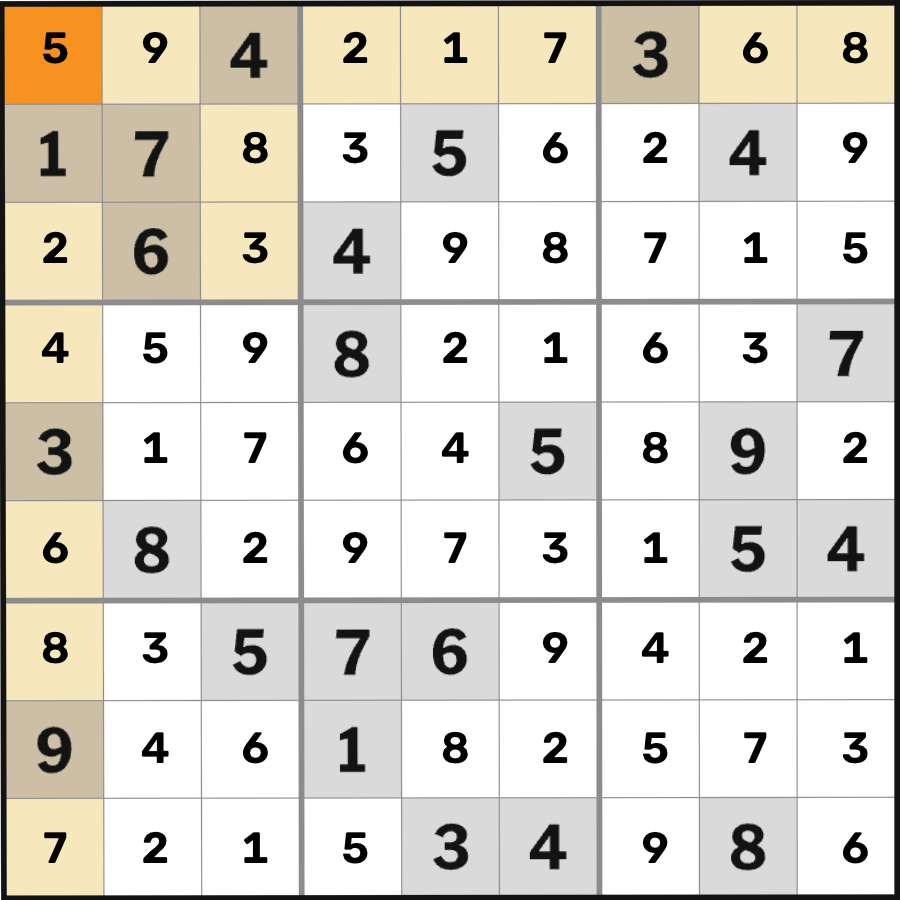
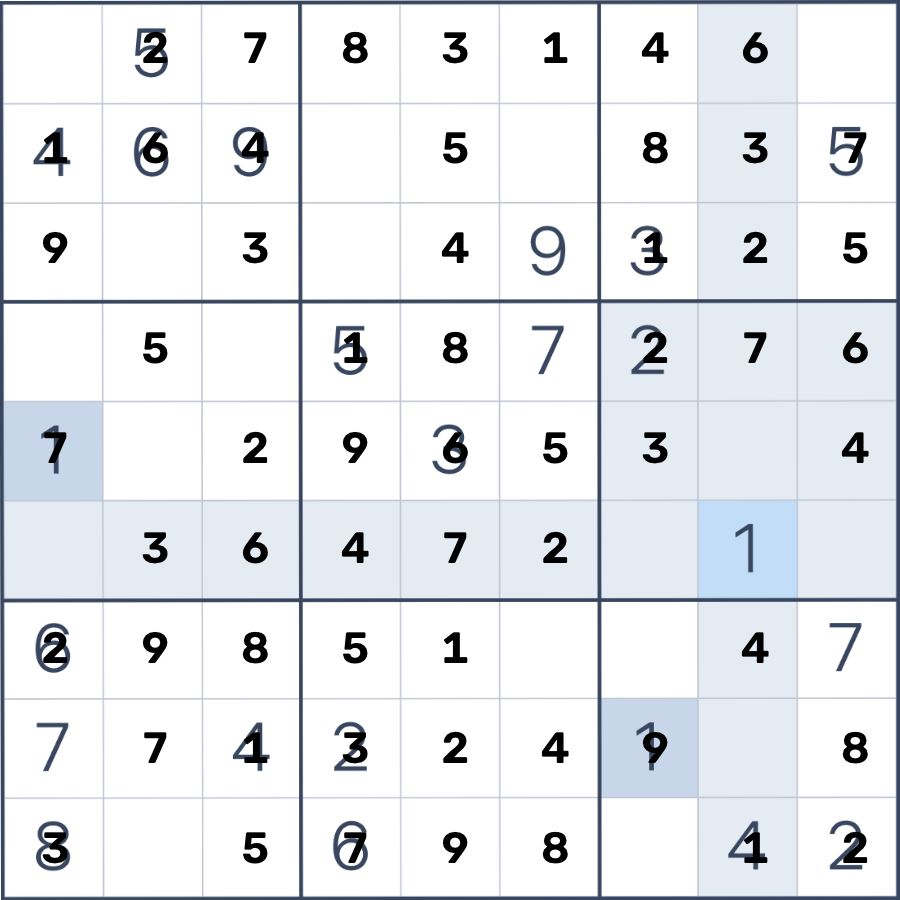
Updated readme, added new step to counteract the OCR issue

diff --git a/functions.py b/functions.py
@@ -51,27 +51,81 @@ def final_points(coords):
     return final_coords, maxWidth, maxHeight
 
 
+# def get_grid(board):
+#     grayscale = cv2.cvtColor(board, cv2.COLOR_BGR2GRAY)
+#     ret, threshold_img = cv2.threshold(grayscale, 127, 255, cv2.THRESH_BINARY)
+#     margin = constants.CELL_SIZE//10
+#     final_grid = []
+#     for row in range(9):
+#         row_values = []
+#         for col in range(9):
+#             y1 = row * constants.CELL_SIZE + margin
+#             y2 = (row + 1) * constants.CELL_SIZE - margin
+#             x1 = col * constants.CELL_SIZE + margin
+#             x2 = (col + 1) * constants.CELL_SIZE - margin
+#             cell = threshold_img[y1:y2, x1:x2]
+#             white_Pixels = cv2.countNonZero(cell)
+#             white_ratio = white_Pixels / cell.size #getting ratio of white pixels so it becomes dynamic
+#             if white_ratio < 0.95:
+#                 number = int((get_digit(cell)).strip())
+#             else:
+#                 number = 0
+#             row_values.append(number)
+#         final_grid.append(row_values)
+#     return final_grid
+
 def get_grid(board):
     grayscale = cv2.cvtColor(board, cv2.COLOR_BGR2GRAY)
-    ret, threshold_img = cv2.threshold(grayscale, 127, 255, cv2.THRESH_BINARY)
-    margin = constants.CELL_SIZE//10
+
+    # Remove tiny anti-aliasing artifacts
+    grayscale = cv2.GaussianBlur(grayscale, (3, 3), 0)
+
+    # Adaptive threshold works much better for screenshots
+    threshold_img = cv2.adaptiveThreshold(
+        grayscale,
+        255,
+        cv2.ADAPTIVE_THRESH_GAUSSIAN_C,
+        cv2.THRESH_BINARY,
+        11,
+        2
+    )
+
+    margin = constants.CELL_SIZE // 10
     final_grid = []
+
     for row in range(9):
         row_values = []
+
         for col in range(9):
             y1 = row * constants.CELL_SIZE + margin
             y2 = (row + 1) * constants.CELL_SIZE - margin
             x1 = col * constants.CELL_SIZE + margin
             x2 = (col + 1) * constants.CELL_SIZE - margin
+
             cell = threshold_img[y1:y2, x1:x2]
-            white_Pixels = cv2.countNonZero(cell)
-            white_ratio = white_Pixels / cell.size #getting ratio of white pixels so it becomes dynamic
-            if white_ratio < 0.95:
-                number = int((get_digit(cell)).strip())
+
+            white_pixels = cv2.countNonZero(cell)
+            white_ratio = white_pixels / cell.size
+
+            if white_ratio < 0.99:
+                # cv2.imshow("cell", cell)
+                # cv2.waitKey(0)
+                text = get_digit(cell).strip()
+                print(row, col, text)
+
+                if text.isdigit():
+                    number = int(text)
+                else:
+                    number = 0
+                    print(text)
+                    cv2.imwrite("failed.png", cell)
             else:
                 number = 0
+
             row_values.append(number)
+
         final_grid.append(row_values)
+
     return final_grid
 
 
@@ -138,6 +192,8 @@ def solve_image(image):
     sudoku_grid = get_grid(image)
     unsolved_grid = copy.deepcopy(sudoku_grid)
     # print(sudoku_grid)
+
+    unsolved_grid = sudoku_grid.copy()
 
     boolean_value = solve(sudoku_grid)
 
@@ -210,7 +266,7 @@ def draw_solution(image, unsolved_grid, solved_grid):
                 finalY = y1 + halfSize + (fontHeight//2)
 
                 cv2.putText(image, str(number), (finalX, finalY), cv2.FONT_HERSHEY_SIMPLEX, 1.5, (0,0,0), 2)
-                
+
     return image
 
 

diff --git a/test/solver.py b/test/solver.py
@@ -48,6 +48,6 @@ def solve(grid, depth = 1):
     print(depth)
     print(np.matrix(grid))
 
-    return np.matrix(grid)
+    return
             
 # solve(SUDOKU_GRID)

diff --git a/readme.md b/readme.md
@@ -25,10 +25,15 @@ It started as a simple backtracking solver, but somewhere along the way it turne
 - [x] Sudoku board detection
 - [x] Perspective transformation
 - [x] Cell extraction
-- [ ] OCR integration
-- [ ] Sudoku solving
-- [ ] Overlay solved board back onto the original image
+- [X] OCR integration
+- [X] Sudoku solving
+- [X] Overlay solved board back onto the original image
+- [] Train CNN classifier and integrate it
 
 ## Why?
 
 Mostly because I enjoy Sudoku and wanted to build something that combines computer vision with a classic algorithm. It also turned out to be a great excuse to learn OpenCV from scratch.
+
+## Some notes
+
+I used tesseract OCR for this but it's unable to detect the number properly and reliably, I have tweaked with the config multiple times but it's always unable to properply recognize a "1" or sometimes even "8", as such I have decided to train a tiny CNN classifier for this purpose.